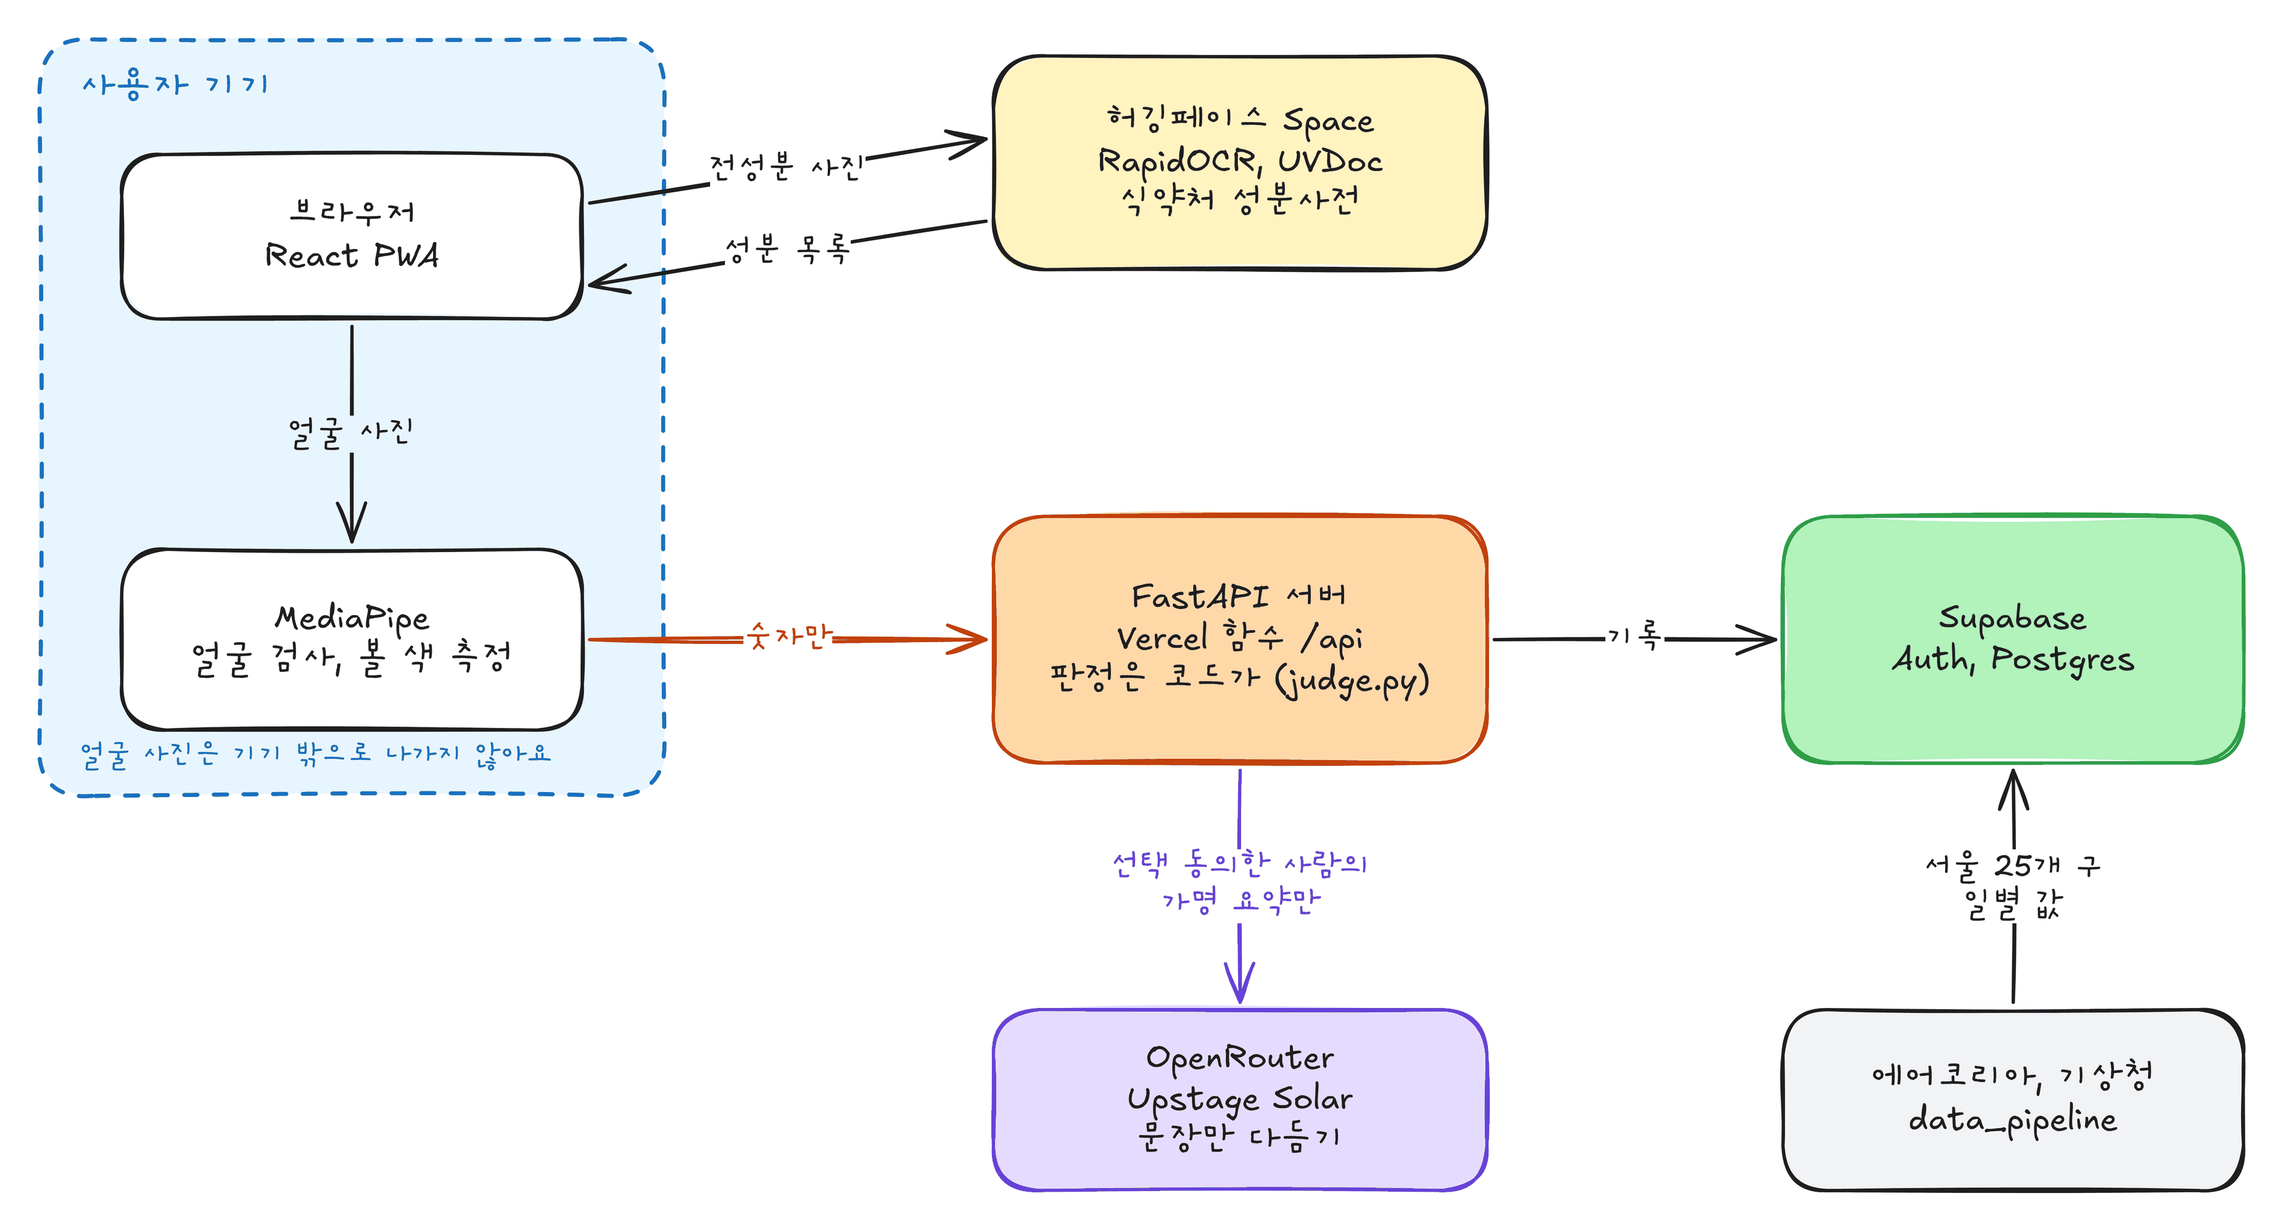
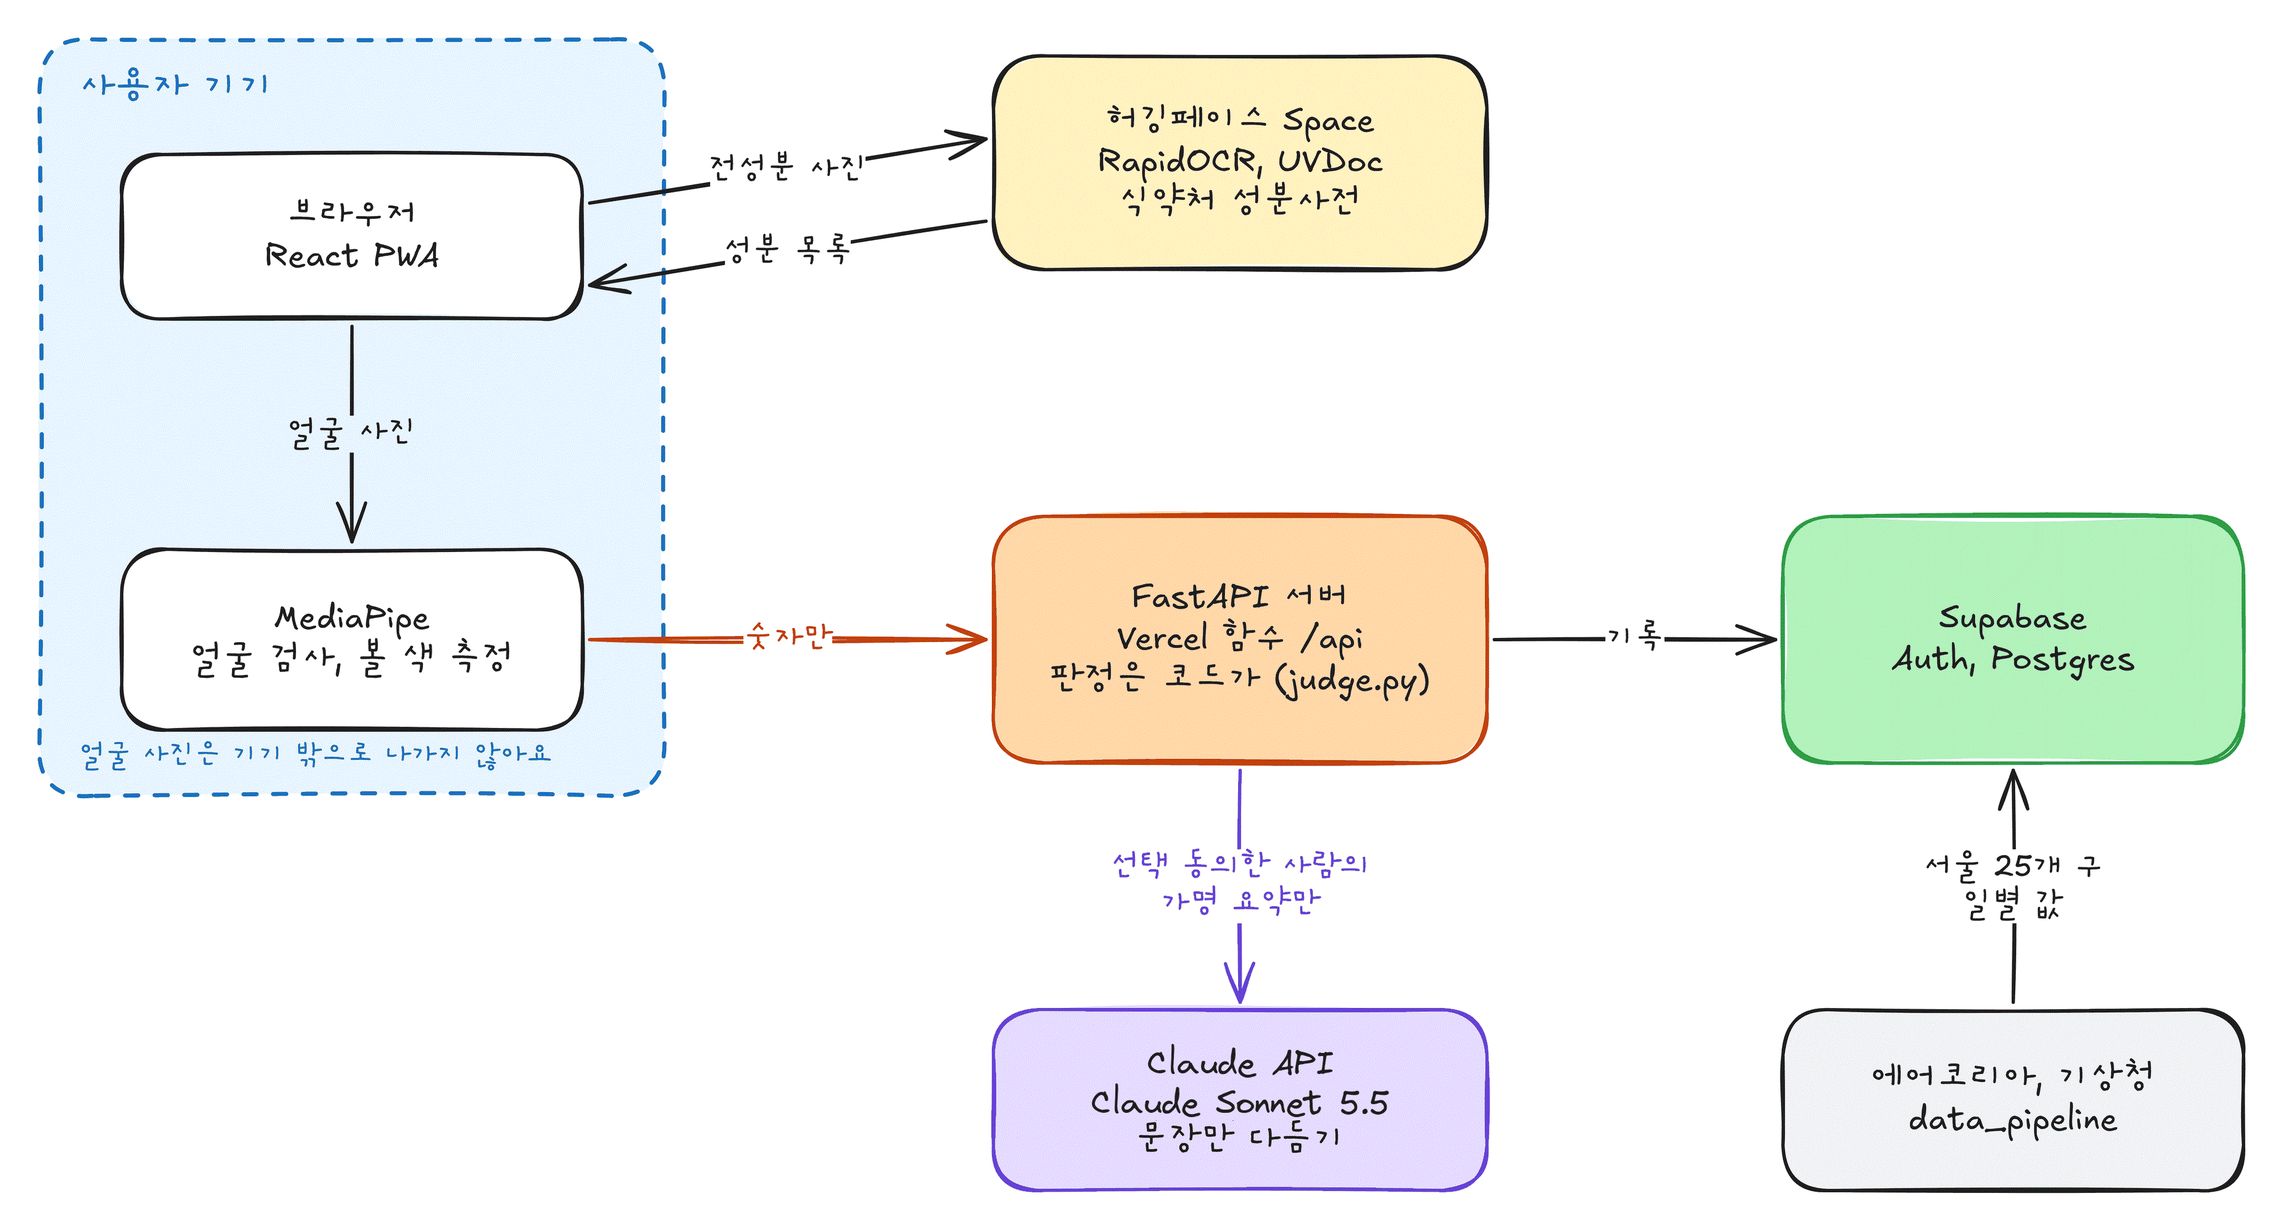
feat: 리포트 문장 다듬기를 OpenRouter 무료 모델에서 Claude API(Claude Sonnet 5.5)로
- llm.py: Anthropic 공식 SDK, 구조화 출력(JSON 스키마)으로 형식 고정, effort low, 거절 시 서버 측 대체 모델.
  실패, 거절, 길이 초과, 검사 불통과는 모두 틀 문장으로 돌아감. 금지어, 숫자, 근거 검사(guard)는 그대로.
- 처리방침과 동의 문구: 받는 곳을 Anthropic(미국)으로. 처리방침 버전 2026-11-26.
  AI 문장 다듬기 선택 동의는 받는 곳이 바뀐 날 이후에 켠 것만 인정(그 전 동의는 꺼진 것으로 보고 다시 묻기).
- 환경변수 ANTHROPIC_API_KEY(필수), ANTHROPIC_MODEL(선택). README와 구조도 갱신.

diff --git a/frontend/src/pages/Legal.jsx b/frontend/src/pages/Legal.jsx
@@ -57,7 +57,7 @@ export default function Legal({ anchor, back, version }) {
           <li><b>Supabase</b> — 로그인과 데이터베이스 (서버 위치: 일본 도쿄 리전 — 국외 이전)</li>
           <li><b>Vercel</b> — 서비스 호스팅</li>
           <li><b>Hugging Face(미국)</b> — 전성분 사진에서 글자 읽기(OCR). 루틴에 제품을 등록할 때 고른 <b>제품 전성분 사진</b>만 보내고(보내기 전 이 기기에서 촬영 위치 등 사진 정보를 지움), 글자를 읽은 뒤 저장하지 않아요. 얼굴 사진은 보내지 않아요. 사진을 고르지 않고 글자를 붙여 넣으면 이 서버를 쓰지 않아요.</li>
-          <li><b>OpenRouter 및 모델 제공 업체(미국)</b> — 리포트 문장 작성. 가상 예시(김서연) 리포트는 판정 요약을 보내고, <b>내 리포트는 ‘AI로 문장 다듬기’에 따로 동의한 경우에만</b> 가명 요약을 보내요. 이메일·이름·사진·제품 이름·날짜는 보내지 않아요. 자세한 내용은 아래 ‘AI로 문장 다듬기’를 봐 주세요.</li>
+          <li><b>Anthropic(미국)</b> — 리포트 문장 작성(Claude 모델). 가상 예시(김서연) 리포트는 판정 요약을 보내고, <b>내 리포트는 ‘AI로 문장 다듬기’에 따로 동의한 경우에만</b> 가명 요약을 보내요. 이메일·이름·사진·제품 이름·날짜는 보내지 않아요. 자세한 내용은 아래 ‘AI로 문장 다듬기’를 봐 주세요.</li>
         </ul>
         <h3>5. 이용자의 권리</h3>
         <p>‘내 계정’ 화면에서 내 데이터를 파일로 내려받고(열람), 체크인을 모두 지우고, 탈퇴(삭제)할 수 있어요. 동의를 거부할 수 있지만, 필수 항목에 동의하지 않으면 가입할 수 없어요. 로그인 없이 쓰는 가상 데모는 계속 볼 수 있어요.</p>
@@ -82,9 +82,9 @@ export default function Legal({ anchor, back, version }) {
         <ul>
           <li><b>동의한 경우에만 써요.</b> 가입할 때나 ‘내 계정’·리포트 화면에서 ‘AI로 문장 다듬기’를 켠 사람만 해당돼요. 동의하지 않아도 모든 기능을 쓸 수 있고, 리포트는 정해진 틀 문장으로 보여 드려요. 언제든 끌 수 있어요.</li>
           <li><b>보내는 것(가명 요약):</b> 루틴을 바꾼 종류(예: ‘제품 하나를 더한’), 바꾼 뒤 며칠째인지, 평소 범위를 넘은 날과 돌아온 날의 순서 번호, 그 기간 따가움 최고 점수, 환경이 평소와 달랐는지 여부. <b>이메일·이름·사진·제품 이름·날짜·볼 색 측정값은 보내지 않아요.</b></li>
-          <li><b>받는 곳(국외 이전):</b> OpenRouter, Inc.(미국)를 거쳐 AI 모델 제공 업체(Upstage의 Solar 모델, 이 모델이 응답하지 않을 때는 OpenRouter가 연결한 다른 모델)로 보내요. 내 리포트를 열 때 암호화된 연결로 보내요.</li>
+          <li><b>받는 곳(국외 이전):</b> Anthropic, PBC(미국)의 Claude 모델(Claude Sonnet 5.5, 안전 판단으로 답하지 않을 때는 Anthropic의 다른 Claude 모델)로 보내요. 내 리포트를 열 때 암호화된 연결로 보내요.</li>
           <li><b>목적:</b> 판정 결과를 읽기 쉬운 문장으로 다듬기. 판정은 AI가 하지 않고 낯씨 코드가 해요. AI 문장은 기록과 맞는지 다시 확인하고, 맞지 않으면 틀 문장으로 바꿔요.</li>
-          <li><b>보관:</b> 낯씨 서버는 보낸 요약과 받은 문장을 저장하지 않아요. OpenRouter 계정에서 요청 데이터로 학습하는 업체와 프롬프트를 공개하는 업체로는 보내지 않도록 막아 두었어요. 모델 제공 업체 쪽 보관은 OpenRouter에 공개된 그 업체의 데이터 정책을 따라요.</li>
+          <li><b>보관:</b> 낯씨 서버는 보낸 요약과 받은 문장을 저장하지 않아요. Anthropic은 API로 받은 내용을 모델 학습에 쓰지 않고, 보관 기간은 Anthropic의 상업용 서비스 데이터 정책을 따라요.</li>
           <li><b>거부할 권리:</b> 동의하지 않거나 언제든 끌 수 있고, 그래도 불이익은 없어요.</li>
         </ul>
       </article>

diff --git a/frontend/src/pages/Account.jsx b/frontend/src/pages/Account.jsx
@@ -49,7 +49,7 @@ export default function Account({ meta, onLegal, onLoggedOut, onChanged }) {
         <h2 className="h3">선택 동의</h2>
         <p className="muted small">동의하지 않아도 기본 기능은 모두 쓸 수 있어요. 언제든 바꿀 수 있어요.</p>
         {[['cheeks', '볼 부분 사진 보관', meta.viewer?.cheeks ? '양 볼 네모 조각(작은 사진)을 보관해 두 날을 눈으로 비교해요. 끄면 보관한 조각을 바로 모두 지워요.' : '켜면 그날 처음 저장된 사진의 양 볼 네모 조각만 보관해 두 날을 눈으로 비교할 수 있어요.', '끄면 보관한 볼 사진을 모두 지웠어요.', '볼 부분 사진 보관을 켰어요.', 'photo'],
-          ['ai_report', 'AI로 리포트 문장 다듬기', '제품 이름, 날짜, 이메일을 뺀 가명 요약만 미국의 AI 서비스(OpenRouter)로 보내 리포트 문장을 다듬어요. 끄면 정해진 틀 문장을 써요.', 'AI 문장 다듬기를 껐어요.', 'AI 문장 다듬기를 켰어요.', 'ai']].map(([k, label, help, offMsg, onMsg, doc]) => (
+          ['ai_report', 'AI로 리포트 문장 다듬기', '제품 이름, 날짜, 이메일을 뺀 가명 요약만 미국의 AI 서비스(Anthropic의 Claude)로 보내 리포트 문장을 다듬어요. 끄면 정해진 틀 문장을 써요.', 'AI 문장 다듬기를 껐어요.', 'AI 문장 다듬기를 켰어요.', 'ai']].map(([k, label, help, offMsg, onMsg, doc]) => (
           <div className="row" key={k}>
             <div><b>{label}</b><p className="muted small">{help} <button className="link" onClick={() => onLegal(doc)}>자세히</button></p></div>
             <label className="switch"><input type="checkbox" checked={!!meta.viewer?.[k]} disabled={!!busy}

diff --git a/frontend/src/pages/Report.jsx b/frontend/src/pages/Report.jsx
@@ -94,7 +94,7 @@ function AiToggle({ on, onLegal, onChanged }) {
         <b>AI로 문장 다듬기 (선택)</b>
       </label>
       <div id="ai-help" className="muted small">
-        <p>켜면 제품 이름, 날짜, 이메일을 뺀 요약만 미국의 AI 서비스(OpenRouter)로 보내 문장을 다듬어요.</p>
+        <p>켜면 제품 이름, 날짜, 이메일을 뺀 요약만 미국의 AI 서비스(Anthropic의 Claude)로 보내 문장을 다듬어요.</p>
         <p>보내는 요약: 바꾼 뒤 며칠째인지, 평소보다 붉었던 날, 따가움 점수</p>
         <p>판정은 낯씨가 해요. 끄면 정해진 틀 문장을 써요. <button className="link" onClick={() => onLegal?.('ai')}>자세히</button></p>
       </div>

diff --git a/backend/tests/test_llm_store.py b/backend/tests/test_llm_store.py
@@ -1,5 +1,7 @@
 import json
+import anthropic
 import httpx
+import httpx2
 import pytest
 from app import demo_data, judge, llm, report, store
 
@@ -11,27 +13,38 @@ GOOD = {"sentences": [
 ]}
 
 
-def fake(reply, status=200):
+def fake(reply, status=200, stop="end_turn"):
+    """Claude API(Messages)를 흉내 내는 가짜 서버. 보낸 요청도 함께 확인한다."""
     def handler(request):
         body = json.loads(request.content)
         assert "김서연" not in request.content.decode()          # 이름을 보내지 않음
-        assert body["models"][0].endswith(":free")
-        return httpx.Response(status, json={"model": body["model"], "choices": [{"message": {"content": reply}}]})
-    return httpx.Client(transport=httpx.MockTransport(handler))
+        assert body["model"] == "claude-sonnet-5-5"
+        assert body["output_config"]["format"]["type"] == "json_schema" and body["output_config"]["effort"] == "low"
+        assert "temperature" not in body                         # Sonnet 5.5는 샘플링 값을 받지 않음
+        if status != 200:
+            return httpx2.Response(status, json={"type": "error", "error": {"type": "rate_limit_error", "message": "slow down"}})
+        return httpx2.Response(200, json={
+            "id": "msg_test", "type": "message", "role": "assistant", "model": body["model"],
+            "content": [{"type": "text", "text": reply}], "stop_reason": stop, "stop_sequence": None,
+            "usage": {"input_tokens": 10, "output_tokens": 10}})
+    return anthropic.Anthropic(api_key="test", max_retries=0,
+                               http_client=anthropic.DefaultHttpxClient(transport=httpx2.MockTransport(handler)))
 
 
 @pytest.fixture(autouse=True)
 def clean(monkeypatch):
     llm._cache.clear()
-    monkeypatch.setenv("OPENROUTER_API_KEY", "test")
+    monkeypatch.setenv("ANTHROPIC_API_KEY", "test")
+    monkeypatch.delenv("ANTHROPIC_MODEL", raising=False)
     yield
     llm._client = None
 
 
 def test_good_reply_is_used():
-    llm._client = fake("```json\\n" + json.dumps(GOOD, ensure_ascii=False) + "\\n```")
+    llm._client = fake(json.dumps(GOOD, ensure_ascii=False))
     rep = report.build_report_llm(rows, demo_data.VERSIONS)
-    assert rep["source"] == "llm" and rep["sentences"][0]["cite_label"] == "근거: 기록 18~21"
+    assert rep["source"] == "llm" and rep["model"] == "claude-sonnet-5-5"
+    assert rep["sentences"][0]["cite_label"] == "근거: 기록 18~21"
 
 
 @pytest.mark.parametrize("bad", [
@@ -49,15 +62,16 @@ def test_bad_reply_falls_back_to_template(bad):
     assert rep["source"] == "template" and rep["llm_error"]
 
 
-def test_http_error_and_garbage_fall_back():
-    for client in (fake("{}", status=429), fake("죄송해요, 잘 모르겠어요")):
+def test_http_error_refusal_and_garbage_fall_back():
+    for client in (fake("{}", status=429), fake("", stop="refusal"), fake("죄송해요, 잘 모르겠어요"),
+                   fake(json.dumps(GOOD, ensure_ascii=False), stop="max_tokens")):
         llm._cache.clear()
         llm._client = client
         assert report.build_report_llm(rows, demo_data.VERSIONS)["source"] == "template"
 
 
 def test_no_key_means_no_call(monkeypatch):
-    monkeypatch.delenv("OPENROUTER_API_KEY")
+    monkeypatch.delenv("ANTHROPIC_API_KEY")
     llm._client = None
     assert report.build_report_llm(rows, demo_data.VERSIONS)["source"] == "template"
 
@@ -97,3 +111,12 @@ def test_supabase_store_roundtrip_is_per_user(monkeypatch):
             store.load_all("x' or 1=1 --")                  # 형식이 틀린 id는 거부
     finally:
         store._client = None
+
+
+def test_ai_consent_before_switch_is_off():
+    """받는 곳(OpenRouter → Anthropic)이 바뀌기 전에 켠 AI 동의는 꺼진 것으로 보고 다시 묻는다."""
+    from app import main
+    on = lambda at: main._ai_on({"consent": {"ai_report": True, **({"ai_report_at": at} if at else {})}})
+    assert not on("2026-11-23T10:00:00+00:00") and not on(None)
+    assert on("2026-11-26T01:00:00+00:00")
+    assert not main._ai_on({"consent": {"ai_report": False, "ai_report_at": "2026-11-27T00:00:00+00:00"}})

diff --git a/backend/app/main.py b/backend/app/main.py
@@ -104,7 +104,7 @@ def meta(v=Depends(viewer)):
             "auth": auth.enabled() or config.OPEN_MODE, "recovery": config.RECOVERY_ENABLED, "env_district": config.DEMO_ENV_DISTRICT, "ocr": config.OCR_ENABLED, "consent_version": config.CONSENT_VERSION, "photo_notice_version": config.PHOTO_NOTICE_VERSION,
             "max_upload_mb": config.MAX_UPLOAD_BYTES // (1024 * 1024),
             "viewer": {"email": v["email"], "consent_version": (v.get("consent") or {}).get("version"),
-                       **{k: bool((v.get("consent") or {}).get(k)) for k in ("cheeks", "ai_report")}} if v else None,
+                       "cheeks": bool((v.get("consent") or {}).get("cheeks")), "ai_report": _ai_on(v)} if v else None,
             "ai_available": llm.enabled()}
 
 
@@ -491,12 +491,18 @@ def my_compare(a: date, b: date, request: Request, v=Depends(need_user)):
     return {"a": ra, "b": rb, "diff": diff, "mdc95": config.MDC95_A_STAR, "beyond_error": abs(diff) > config.MDC95_A_STAR}
 
 
+def _ai_on(v) -> bool:
+    """AI 문장 다듬기 선택 동의. 받는 곳이 바뀐 날(config.AI_CONSENT_SINCE) 이후에 켠 동의만 인정한다."""
+    c = v.get("consent") or {}
+    return bool(c.get("ai_report")) and (c.get("ai_report_at") or "") >= config.AI_CONSENT_SINCE
+
+
 @app.get("/api/me/report")
 def my_report(request: Request, v=Depends(need_user)):
     """내 리포트: 기본은 틀 문장. 'AI로 문장 다듬기'에 따로 동의한 사람만, 제품 이름·날짜·이메일을 뺀 가명 요약을 AI 모델에 보낸다."""
     limit("report", request, v)
     rows, versions = _my_ctx(v["id"])
-    if (v.get("consent") or {}).get("ai_report"):
+    if _ai_on(v):
         rep = report.build_report_llm(rows, versions, llm_versions=report.pseudonymize(versions))
     else:
         rep = report.build_report(rows, versions)

diff --git a/backend/tests/test_account_security.py b/backend/tests/test_account_security.py
@@ -99,7 +99,7 @@ def env(monkeypatch):
     fake = FakeSupabase()
     for k, v in {"SUPABASE_URL": "https://x.supabase.co", "SUPABASE_ANON_KEY": "anon", "SUPABASE_SERVICE_KEY": "svc"}.items():
         monkeypatch.setenv(k, v)
-    monkeypatch.delenv("OPENROUTER_API_KEY", raising=False)
+    monkeypatch.delenv("ANTHROPIC_API_KEY", raising=False)
     monkeypatch.setattr(config, "OPEN_MODE", False)
     monkeypatch.setattr(config, "RECOVERY_ENABLED", True)
     client = httpx.Client(transport=httpx.MockTransport(fake.handler))
@@ -400,7 +400,7 @@ def test_ai_report_is_opt_in_and_pseudonymized(env, monkeypatch):
         monkeypatch.setattr(config, "today_kst", lambda d=day + timedelta(days=i): d)
         up(c, {**GOOD, "a_star": a}, headers=h)
     sent = []
-    monkeypatch.setenv("OPENROUTER_API_KEY", "x")
+    monkeypatch.setenv("ANTHROPIC_API_KEY", "x")
     monkeypatch.setattr(llm, "write_report", lambda facts: sent.append(facts) or {"error": "test"})
     assert c.get("/api/me/report", headers=h).json()["source"] == "template" and not sent     # 동의 전: AI 호출 없음
     assert c.get("/api/meta", headers=h).json()["viewer"]["ai_report"] is False

diff --git a/backend/tests/test_env.py b/backend/tests/test_env.py
@@ -22,7 +22,7 @@ def test_fixed_demo_with_real_env(monkeypatch):
 def test_report_uses_real_env_facts(monkeypatch):
     monkeypatch.setattr(config, "DEMO_SHIFT_DAYS", 10)
     monkeypatch.setattr(config, "DEMO_ENV_DISTRICT", "서대문구")
-    monkeypatch.delenv("OPENROUTER_API_KEY", raising=False)
+    monkeypatch.delenv("ANTHROPIC_API_KEY", raising=False)
     c = TestClient(app)
     texts = [s["text"] for s in c.get("/api/report").json()["sentences"]]
     assert "같은 기간 미세먼지, 습도, 기온은 평소와 비슷했어요." in texts

diff --git a/backend/app/report.py b/backend/app/report.py
@@ -1,7 +1,7 @@
 """리포트 문장 만들기.
 
 build_report(): 판정 기록만으로 정해진 틀의 문장을 조립합니다.
-build_report_llm(): OpenRouter 무료 모델이 같은 사실을 자연스럽게 다듬습니다. 출력이 검사
+build_report_llm(): Claude API(Claude Sonnet 5.5)가 같은 사실을 자연스럽게 다듬습니다. 출력이 검사
 (llm.guard + verify)를 통과하지 못하거나 호출이 실패하면 틀 문장으로 돌아갑니다.
 """
 import re

diff --git a/backend/app/ratelimit.py b/backend/app/ratelimit.py
@@ -2,7 +2,7 @@
 
 서버리스는 인스턴스가 여러 개라 이 카운터는 인스턴스마다 따로입니다.
 즉 '반복 호출로 비용이 폭주하는 것'을 막는 1차 방어이고, 확실한 상한은
-OpenRouter 키의 크레딧 한도로 함께 걸어 두세요.
+Anthropic 콘솔의 월 사용 한도(spend limit)로 함께 걸어 두세요.
 """
 import time
 from collections import defaultdict, deque
